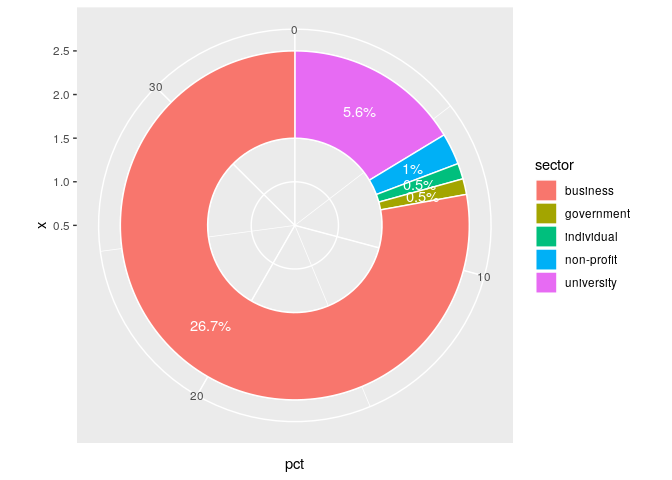
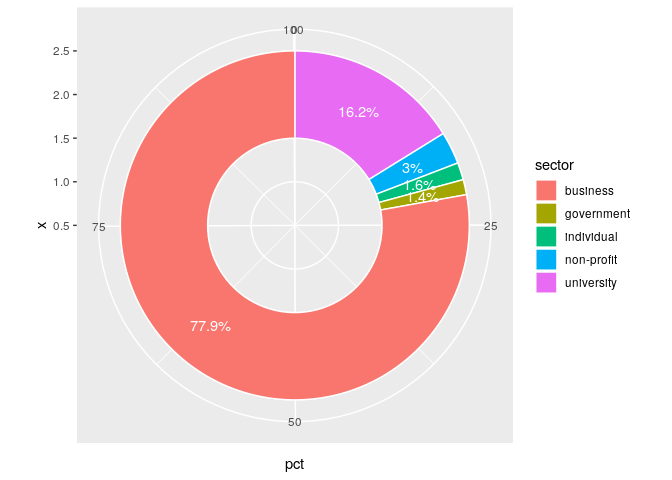
fixed a small number error

diff --git a/src/Visualization/poster_graphs.md b/src/Visualization/poster_graphs.md
@@ -153,39 +153,19 @@ labels <- c("1", "[2-3)","[3-4)" ,"[4-10)", "[10-50)", "[50-200)","[200-1,000)",
 # bucketing data points into bins
 bins <- cut(repo$Freq, breaks, include.lowest = T, right=FALSE, labels = labels)
 # inspect bins
-summary(bins)
-```
-
-    ##           1       [2-3)       [3-4)      [4-10)     [10-50)    [50-200) 
-    ##     2387804     1809747      417337      287345       36673        1730 
-    ## [200-1,000)     >=1,000 
-    ##         145           7
-
-``` r
+#summary(bins)
 # make a barplot that looks like a histogram
-barplot(summary(bins))
-```
+#barplot(summary(bins))
 
-![](poster_graphs_files/figure-markdown_github/unnamed-chunk-4-1.png)
-
-``` r
 # make a dataframe to make it easier to plot
 df <- cbind.data.frame(c("1 or 2 contributors (48%)","3 contributors (37%)","4 (8%)","5-10 (6%)","11-50 (0.7%)","50-200","200-1,000",">=1,000"),as.numeric(as.character(summary(bins))))
 colnames(df) <- c("contributors","freq")
 
-#ggplot(df) +
-  aes(x = contributors, y = freq, fill="orange") +
-  geom_col() + theme_bw()
-```
-
-    ## NULL
-
-``` r
 pal <- c(uva_cols("orange"),uva_cols("blue"),  uva_cols("turquoise"), uva_cols("aqua"),uva_cols("red"),uva_cols("medium grey"))
 treemap(df, index="contributors", vSize="freq",palette = pal, title="Number of contributors per repository",fontsize.labels=c(15,15,12,12,10,8,8,8),fontsize.title=18)
 ```
 
-![](poster_graphs_files/figure-markdown_github/unnamed-chunk-4-2.png)
+![](poster_graphs_files/figure-markdown_github/unnamed-chunk-4-1.png)
 
 Plot4: Contributors by sectors
 ------------------------------
@@ -221,23 +201,23 @@ cbind(c("number","percent"),result)
     ## 1:  number 7587044.000  1947689.000 64048.000
     ## 2: percent      79.042       20.291     0.667
 
-Of all the identified copyright claimants, 26.7% are from the business sector. The break down of sectors are shown as follows:
+Of all the identified copyright claimants, 78% are from the business sector. The break down of sectors are shown as follows:
 
 ``` r
 df <- cbind.data.frame(c("business","government","non-profit","university","individual"),c(length(which(match2$business)),length(which(match2$government)),length(which(match2$nonprofit)),length(which(match2$university)),length(which(match2$individual))))
             
 colnames(df)<-c("sector","count")
-df$pct<-100*round(as.numeric(as.character(df$count))/(nrow(match2)-length(which(match2$identified))),3)
+df$pct<-100*round(as.numeric(as.character(df$count))/sum(match2$identified,na.rm = TRUE),3)
 df%>% knitr::kable()
 ```
 
 | sector     |  count|   pct|
 |:-----------|------:|-----:|
-| business   |  49866|  26.7|
-| government |    908|   0.5|
-| non-profit |   1893|   1.0|
-| university |  10368|   5.6|
-| individual |   1013|   0.5|
+| business   |  49866|  77.9|
+| government |    908|   1.4|
+| non-profit |   1893|   3.0|
+| university |  10368|  16.2|
+| individual |   1013|   1.6|
 
 ``` r
 ggplot(df, aes(x = 2, y = pct, fill=sector)) +
